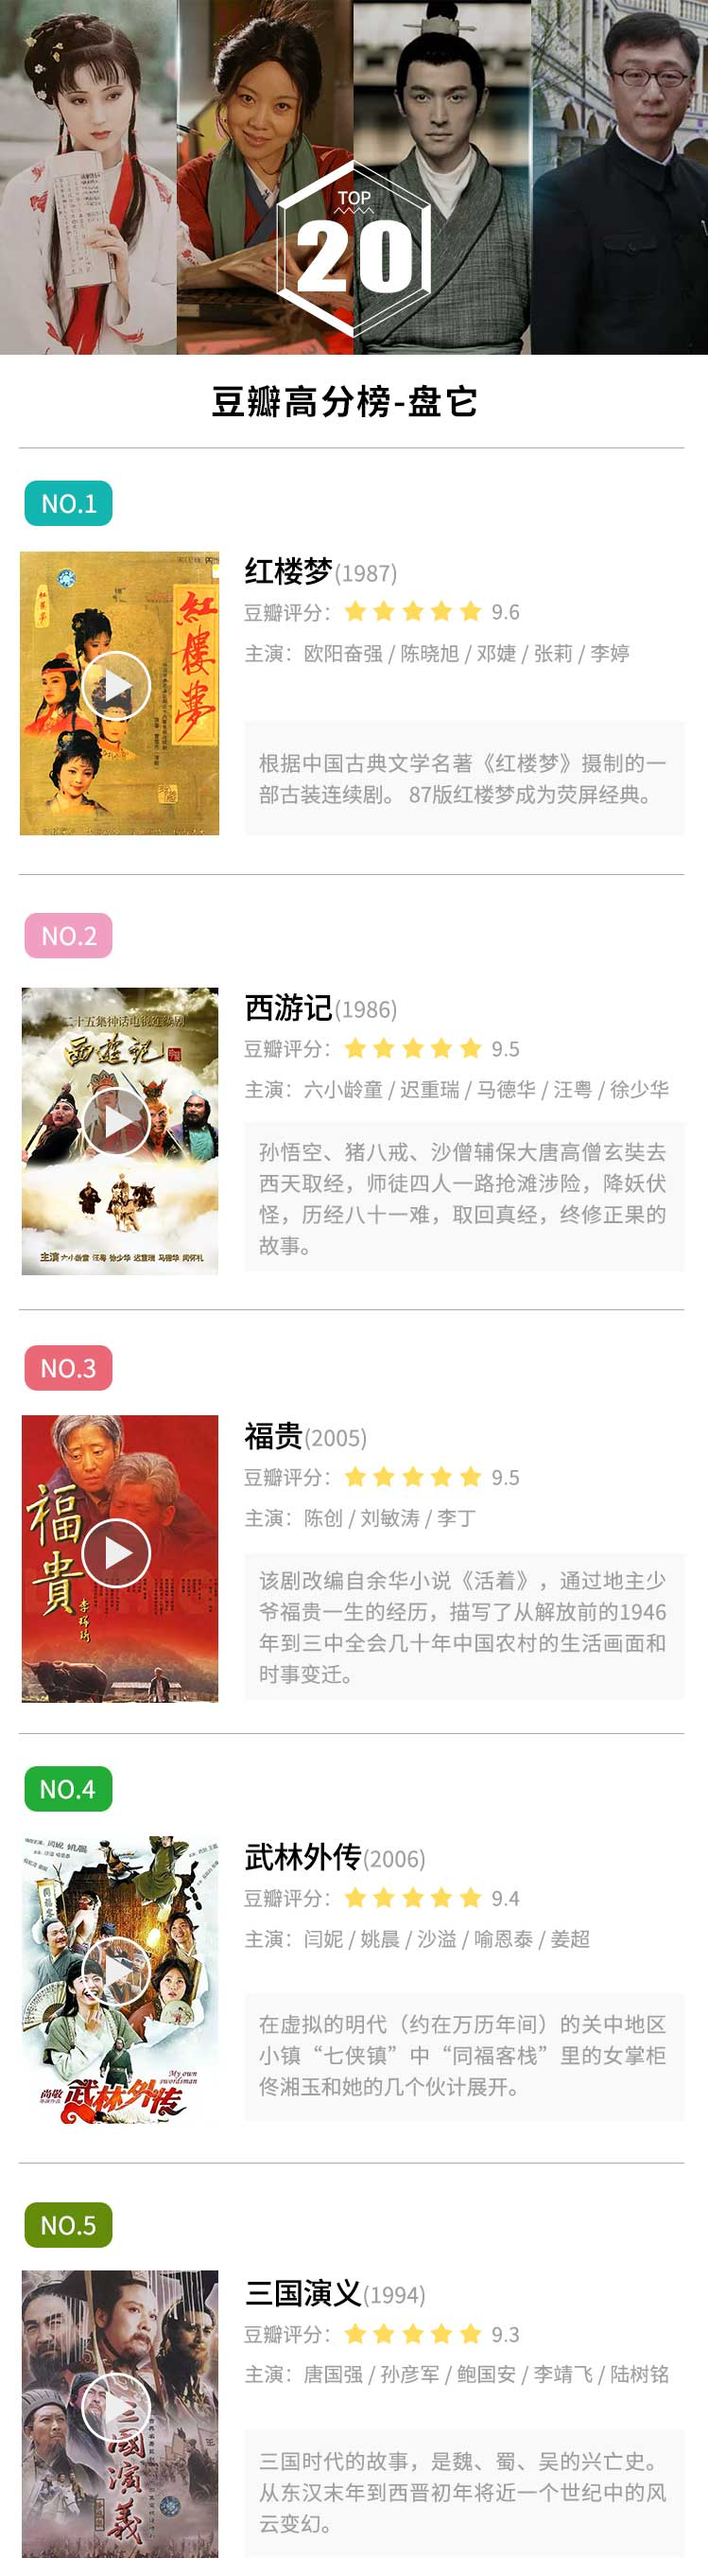
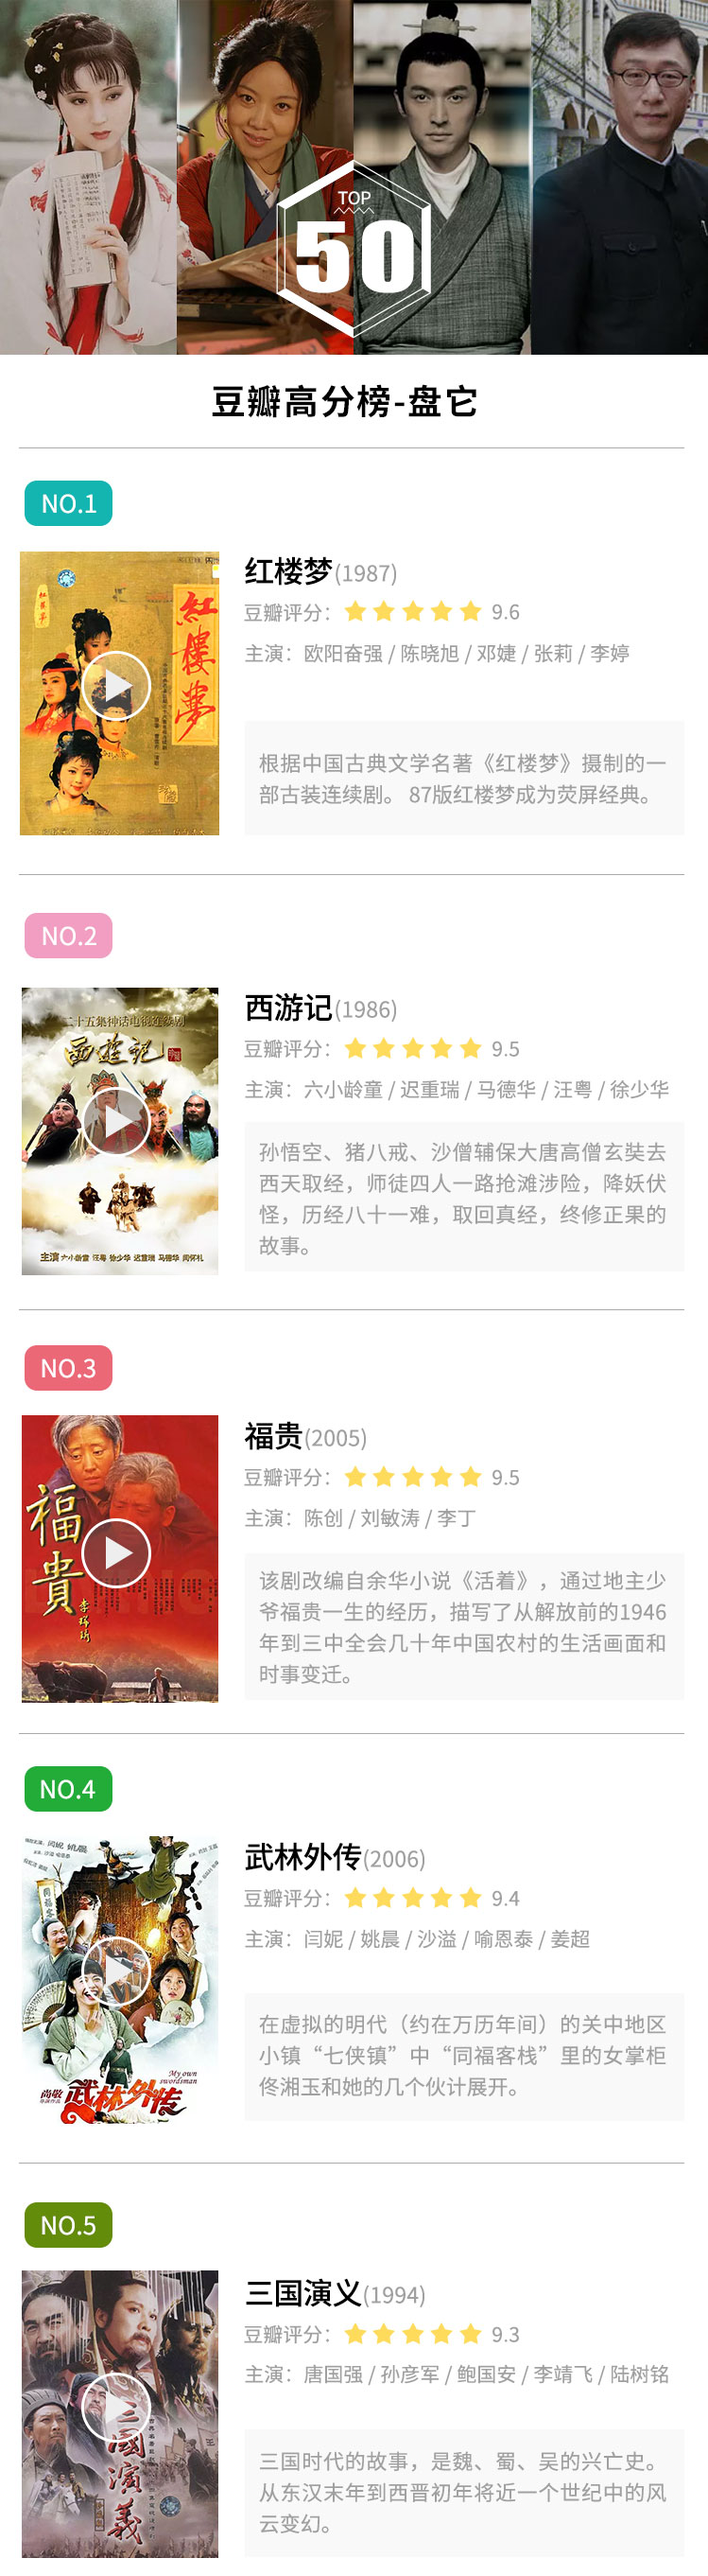
333

diff --git a/top1/js/index.js b/top1/js/index.js
@@ -18,6 +18,8 @@ $(function () {
 	for(var i=0;i<lj.length;i++){
 		if(i==0){
 			lj[i].style.top = 586+"px"
+		}else if(i>=46){
+			lj[i].style.top = 586+451.5*i+"px"
 		}else{
 			lj[i].style.top = 586+452.5*i+"px"
 		}
@@ -194,7 +196,7 @@ redictSrcId(626002043)
 redictSrcId(623232622)
 	};
 	lj[48].onclick = function(){
-redictSrcId(651825285)
+redictSrcId(651991547)
 	};
 	lj[49].onclick = function(){
 redictSrcId(651825285)

diff --git a/top1/index.html b/top1/index.html
@@ -9,8 +9,8 @@
 	<body>
 		<div>
 			<div class="btn">
-				<button class='btn1'>Top20电影</button>
-				<button class='btn2' >Top20电视剧</button>
+				<button class='btn1'>Top50电影</button>
+				<button class='btn2' >Top50电视剧</button>
 			</div>
 			<div class='one '>
 				<img data-original="img/1.jpg" class='a'/>
